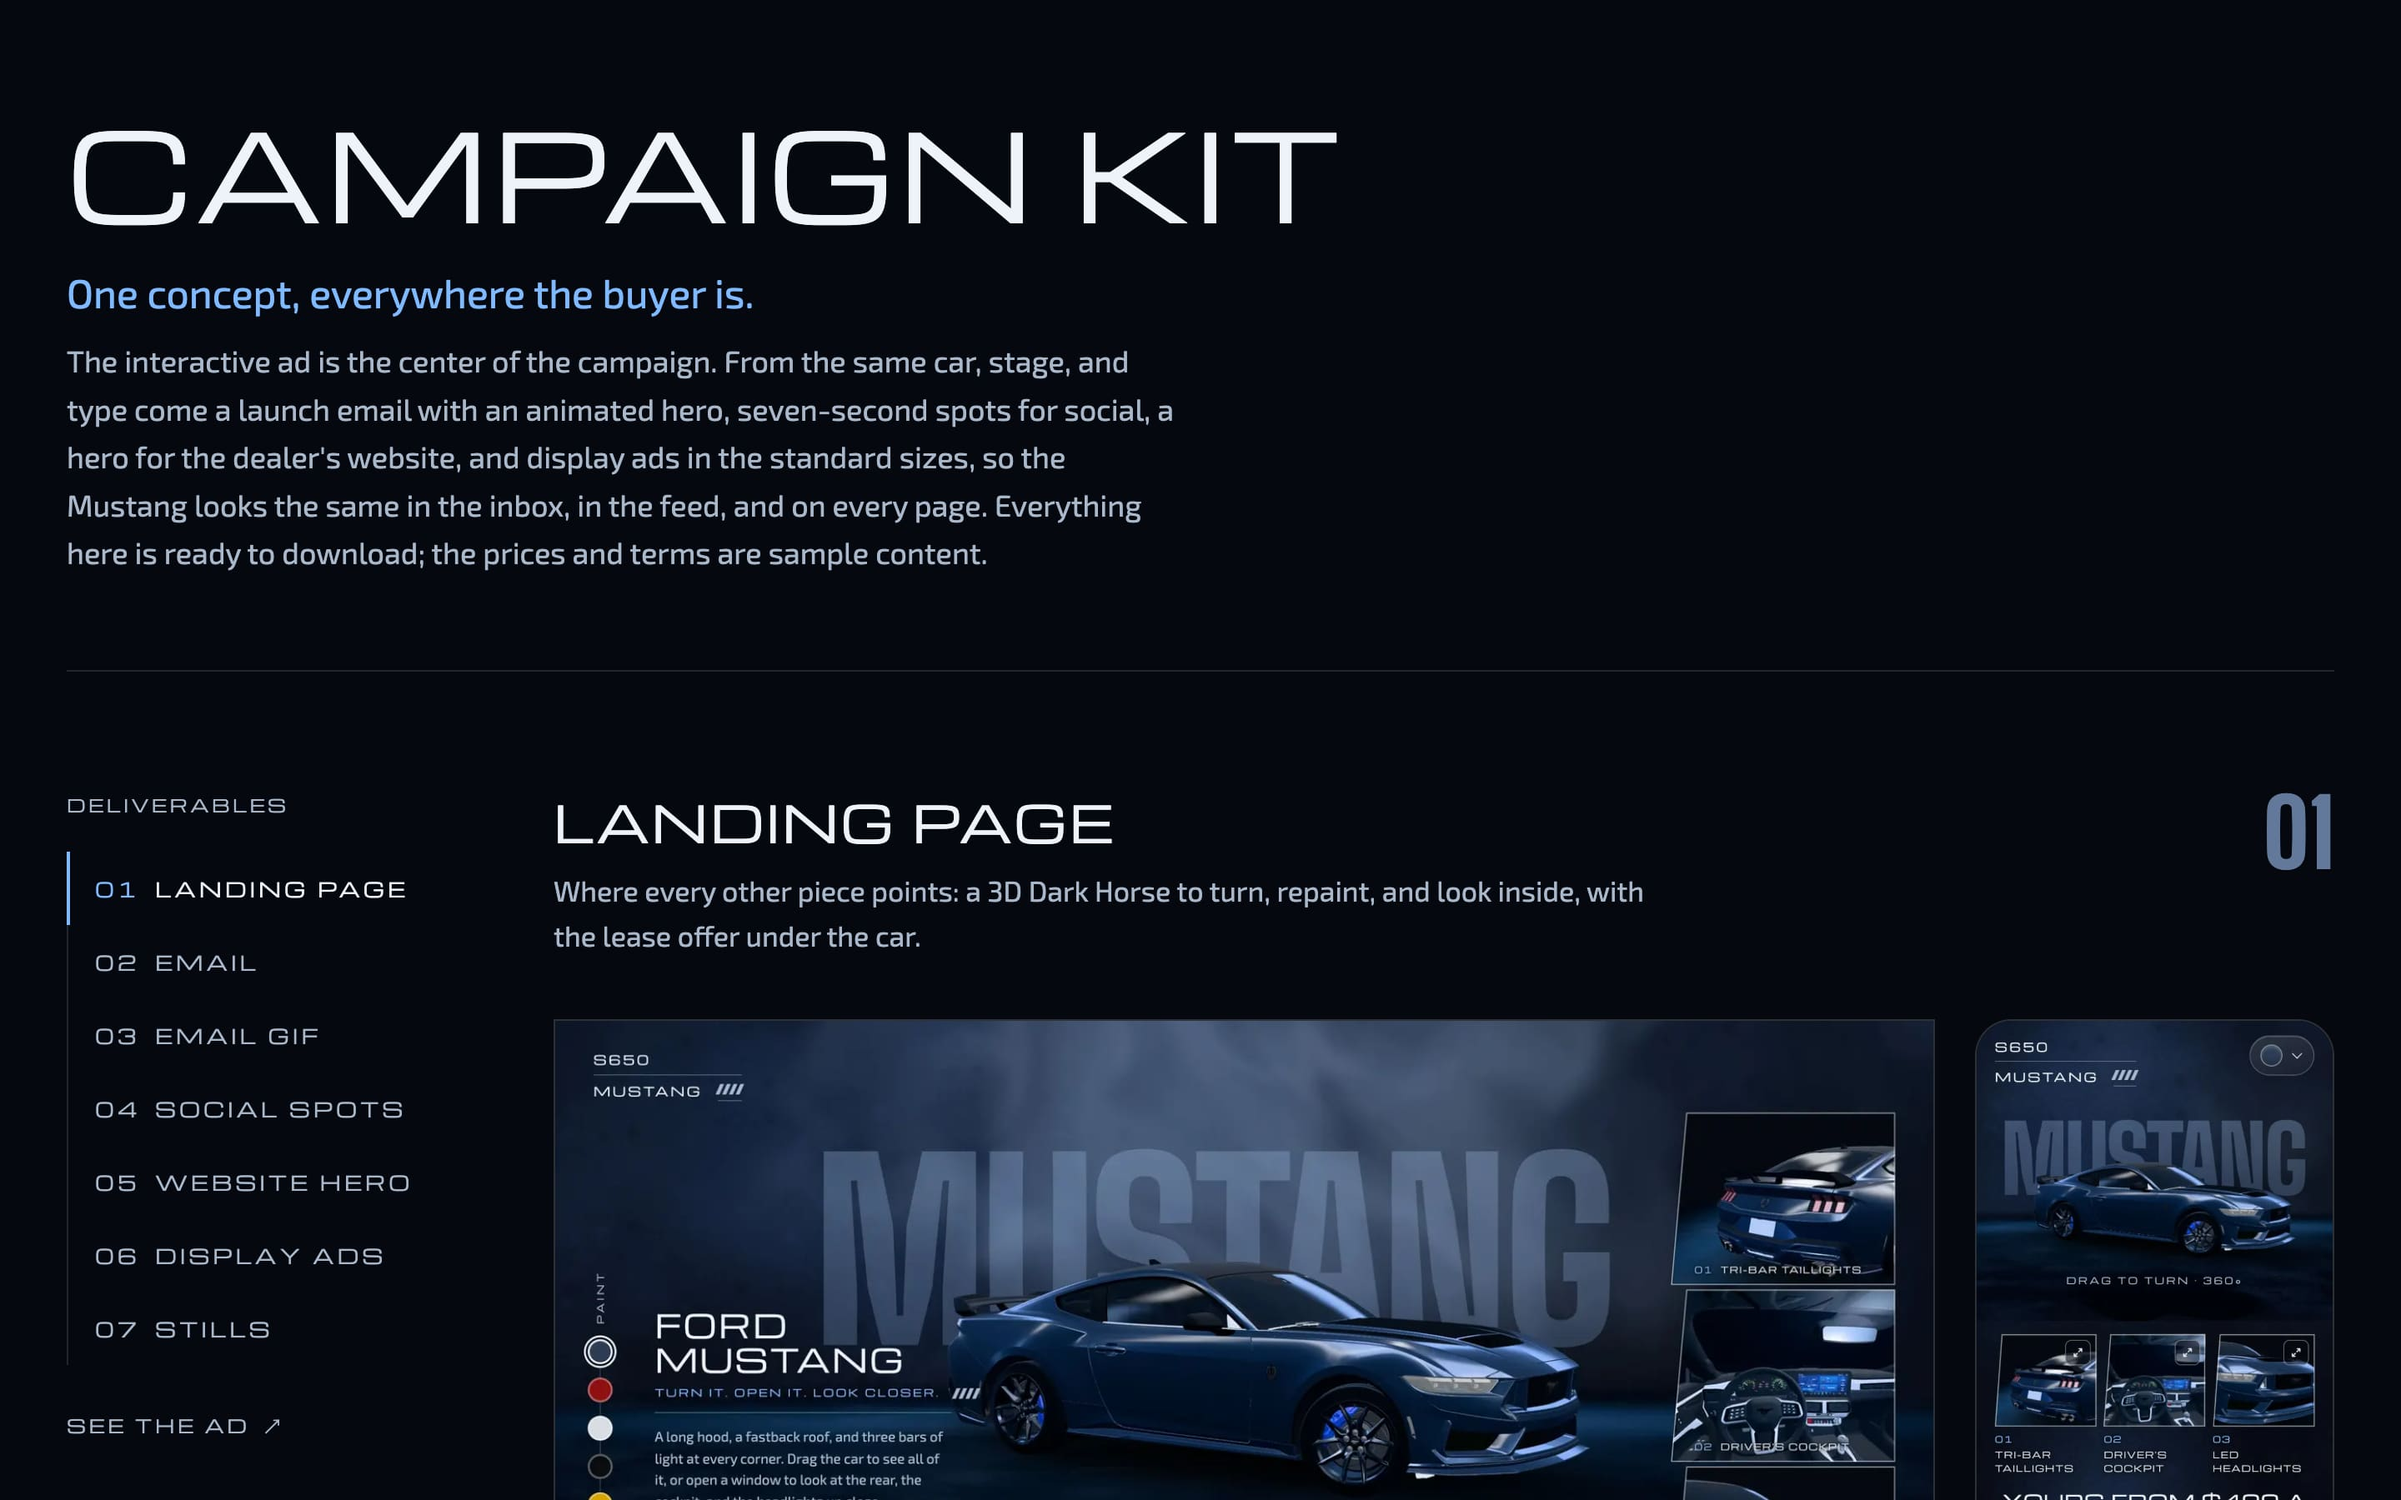
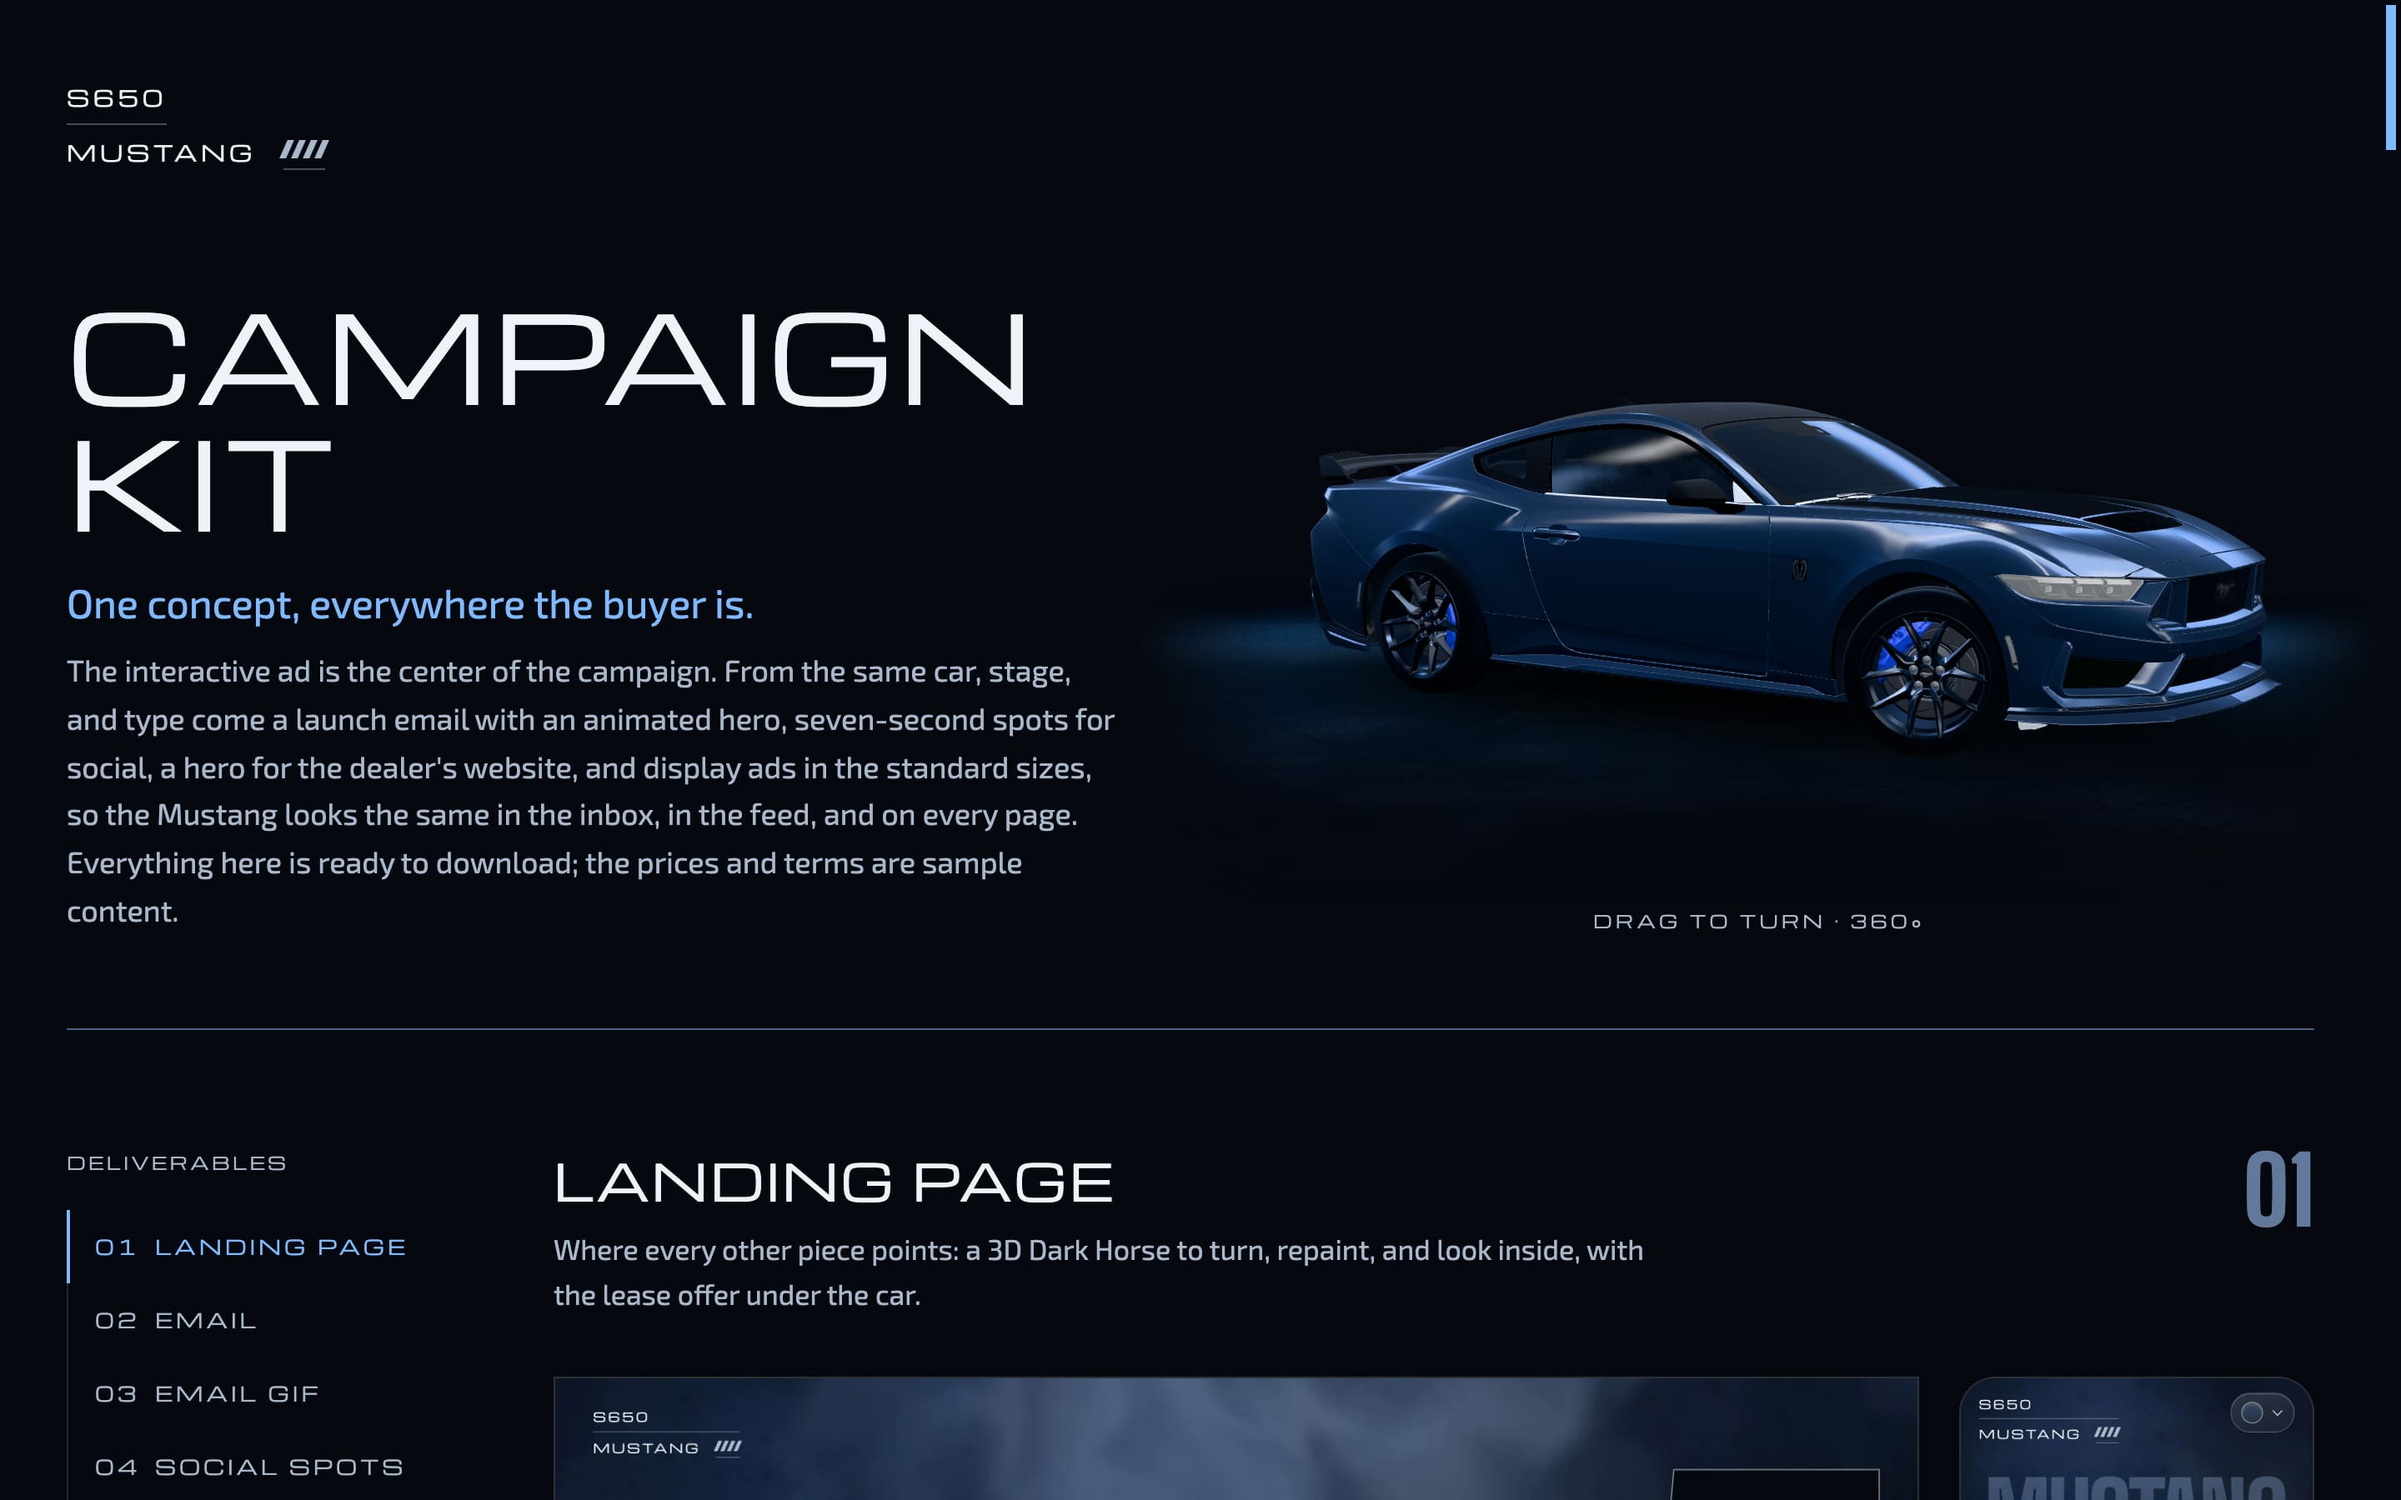
Enhance Mustang campaign kit: update page content to include 3D car interaction and replace image assets for improved presentation.

diff --git a/app/(site)/mustang/page.js b/app/(site)/mustang/page.js
@@ -189,7 +189,7 @@ const Page = () => {
               <h3 className="cyril-case-subheading">A Car Launch, on a Page</h3>
               <p>The layout follows a poster: the car in the middle of a dark studio, the model name huge behind it, the windows like a contact sheet down the side, and the price under the tires. The stage is wet, scuffed concrete with smoke drifting over it, so the car&apos;s paint and chrome have something to reflect, and the floor shows a short, faded reflection under the tires and a soft shadow, as a showroom floor would. The type is narrow and loud for the name (Big Shoulders, chosen from ten condensed faces), wide and mechanical for headings (Michroma), and plain for reading (Exo 2, chosen from nine side by side). One accent blue marks everything you can act on.</p>
               <h3 className="cyril-case-subheading">One Concept, Many Channels</h3>
-              <p>The web page is one application of the idea, not the whole of it. The same stage, type, and car carry into a launch email, short spots for social, a website hero, and display ads: one creative concept with multiple applications, so the campaign looks and feels the same in the inbox, in the feed, on the dealer&apos;s site, and across the web. Every piece is in the <a className="cyril-dark" href={KIT} target="_blank" rel="noopener noreferrer">campaign kit</a>, with what it&apos;s for, its specs, and a download.</p>
+              <p>The web page is one application of the idea, not the whole of it. The same stage, type, and car carry into a launch email, short spots for social, a website hero, and display ads: one creative concept with multiple applications, so the campaign looks and feels the same in the inbox, in the feed, on the dealer&apos;s site, and across the web. Every piece is in the <a className="cyril-dark" href={KIT} target="_blank" rel="noopener noreferrer">campaign kit</a>, with what it&apos;s for, its specs, and a download. The kit opens with the same 3D car, which you can drag all the way around.</p>
               <CaseFigure src={`${P}desktop-kit.jpg`} alt="The Mustang campaign kit page: one concept, everywhere the buyer is" caption="The campaign kit" frame="browser" url={`${URL}/kit/`} />
               <p><strong>The email.</strong> A launch email for the dealer&apos;s list, built the way email has to be: tables and inline styles, a 600px column that stacks on phones, a button that holds up in Outlook, and web fonts only where the inbox allows them. The car turns at the top as a GIF: one full turn, looping, opening on the front three-quarter view, the only frame Outlook on Windows shows. Under it, the three close-ups from the ad&apos;s windows, the specs, and the offer, with every image and button leading back to the 3D ad.</p>
               <CaseGrid layout="two">
